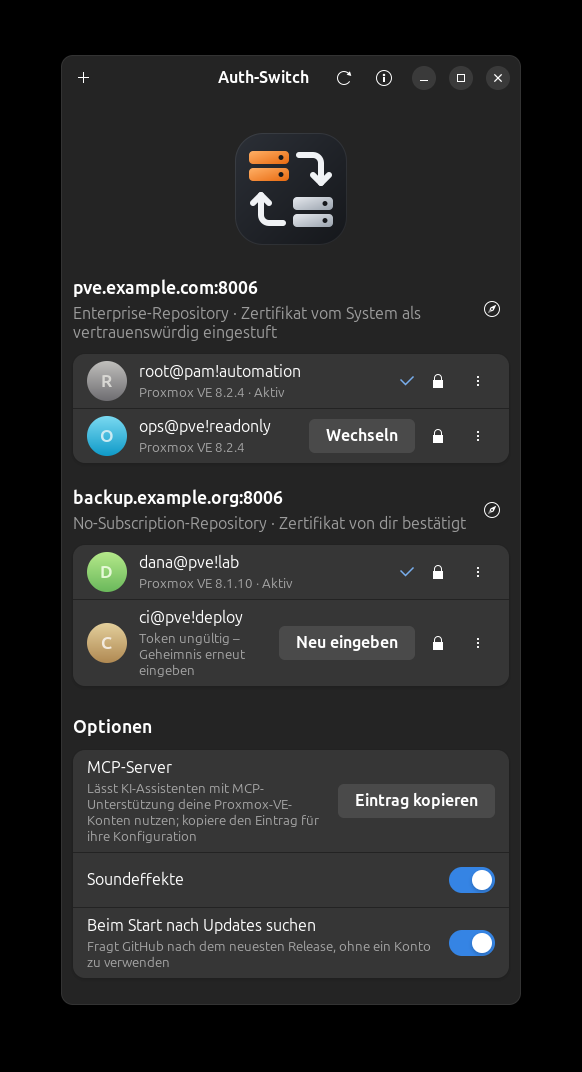
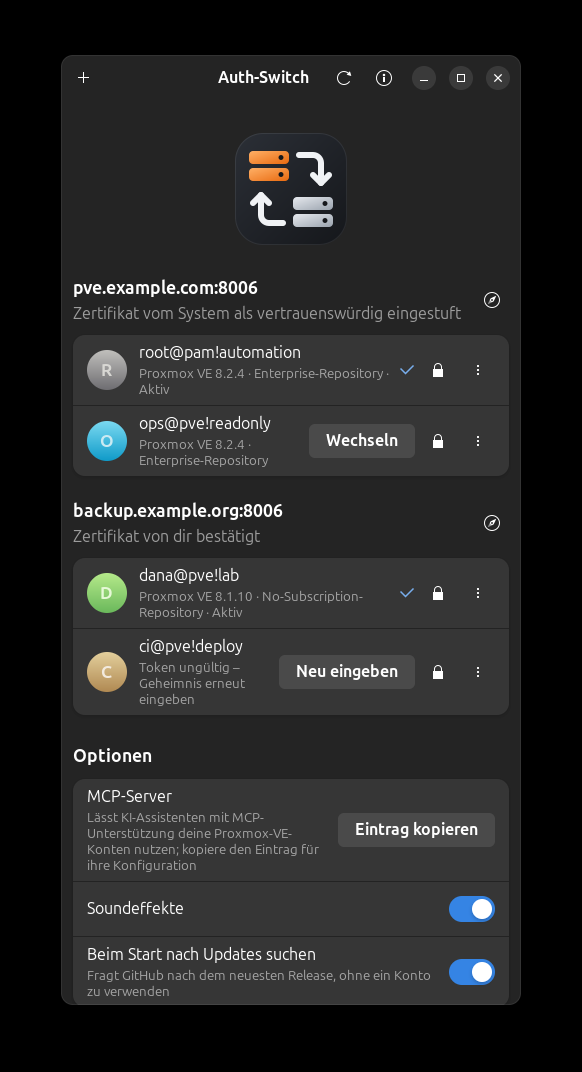
Show the repository next to the Proxmox VE version
The repository state now follows the version in each account's line,
where it belongs to the server's software, while the line under the
server address only names the certificate state. Screenshots retaken.

Deutsch: Repository neben der Proxmox-VE-Version anzeigen. Der
Repository-Status steht jetzt hinter der Version in der Zeile jedes
Kontos, wo er zur Software des Servers gehört; die Zeile unter der
Serveradresse nennt nur noch den Zertifikatsstatus. Screenshots neu
aufgenommen.

diff --git a/authswitch/gui.py b/authswitch/gui.py
@@ -197,15 +197,8 @@ class Window(Adw.ApplicationWindow):
 
     def build_host_group(self, host: str) -> Adw.PreferencesGroup:
         pinned = core.pinned_fingerprint(host)
-        parts = [_("Certificate confirmed by you") if pinned else _("Certificate trusted by the system")]
-        repository = {
-            core.ENTERPRISE: _("Enterprise Repository"),
-            core.NO_SUBSCRIPTION: _("No-Subscription Repository"),
-            core.NEEDS_SETUP: _("No subscription – repository not set up"),
-        }.get(core.stored_repository(host))
-        if repository:
-            parts.insert(0, repository)
-        group = Adw.PreferencesGroup(title=host, description=" · ".join(parts))
+        description = _("Certificate confirmed by you") if pinned else _("Certificate trusted by the system")
+        group = Adw.PreferencesGroup(title=host, description=description)
         button = Gtk.Button(icon_name="web-browser-symbolic", valign=Gtk.Align.CENTER, tooltip_text=_("Open web interface"))
         button.add_css_class("flat")
         button.connect("clicked", lambda *_args: self.open_uri(core.web_interface(host)))
@@ -279,6 +272,13 @@ class Window(Adw.ApplicationWindow):
             row.set_subtitle(_("Server not reachable"))
             return
         parts = [_("Proxmox VE {version}").format(version=profile.version)] if profile.version else []
+        repository = {
+            core.ENTERPRISE: _("Enterprise Repository"),
+            core.NO_SUBSCRIPTION: _("No-Subscription Repository"),
+            core.NEEDS_SETUP: _("No subscription – repository not set up"),
+        }.get(core.stored_repository(account.host))
+        if repository:
+            parts.append(repository)
         if profile.has_rights is False:
             parts.append(_("No rights – check privilege separation"))
         if account.active:

diff --git a/authswitch/__init__.py b/authswitch/__init__.py
@@ -1,3 +1,3 @@
 """auth-switch – a small GUI and MCP server for switching Proxmox VE accounts."""
 
-__version__ = "0.3.12"
+__version__ = "0.3.13"

diff --git a/README.de.md b/README.de.md
@@ -53,14 +53,14 @@ Schlüsselbund (GNOME Keyring, KWallet o. Ä.).
 [Release-Seite](../../releases) herunterladen und installieren:
 
 ```bash
-sudo apt install ./auth-switch_0.3.12_all.deb
+sudo apt install ./auth-switch_0.3.13_all.deb
 ```
 
 **Andere Distributionen** – PyGObject, GTK 4, libadwaita und libsecret über den
 Paketmanager installieren, dann:
 
 ```bash
-pipx install --system-site-packages auth_switch-0.3.12-py3-none-any.whl
+pipx install --system-site-packages auth_switch-0.3.13-py3-none-any.whl
 ```
 
 ## Konto hinzufügen

diff --git a/README.md b/README.md
@@ -52,14 +52,14 @@ keyring (GNOME Keyring, KWallet or similar).
 [releases page](../../releases) and install it:
 
 ```bash
-sudo apt install ./auth-switch_0.3.12_all.deb
+sudo apt install ./auth-switch_0.3.13_all.deb
 ```
 
 **Other distributions** – install PyGObject, GTK 4, libadwaita and libsecret
 from your package manager, then:
 
 ```bash
-pipx install --system-site-packages auth_switch-0.3.12-py3-none-any.whl
+pipx install --system-site-packages auth_switch-0.3.13-py3-none-any.whl
 ```
 
 ## Adding an account
